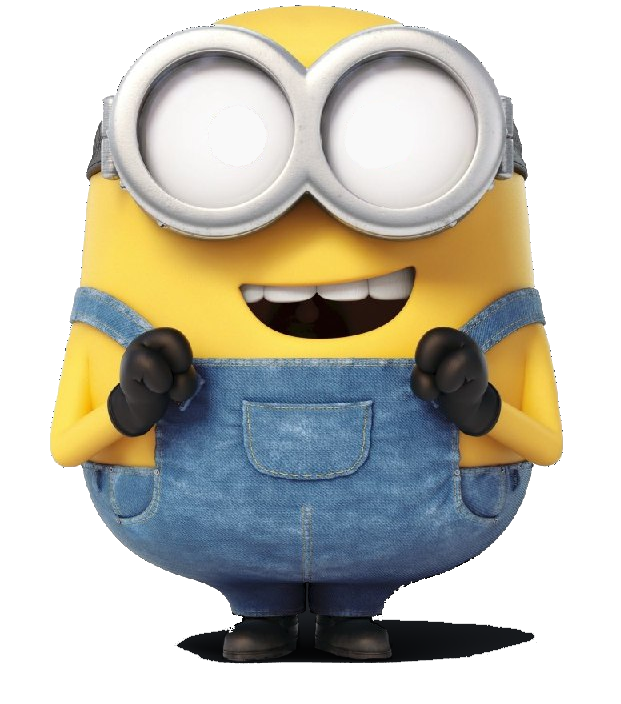
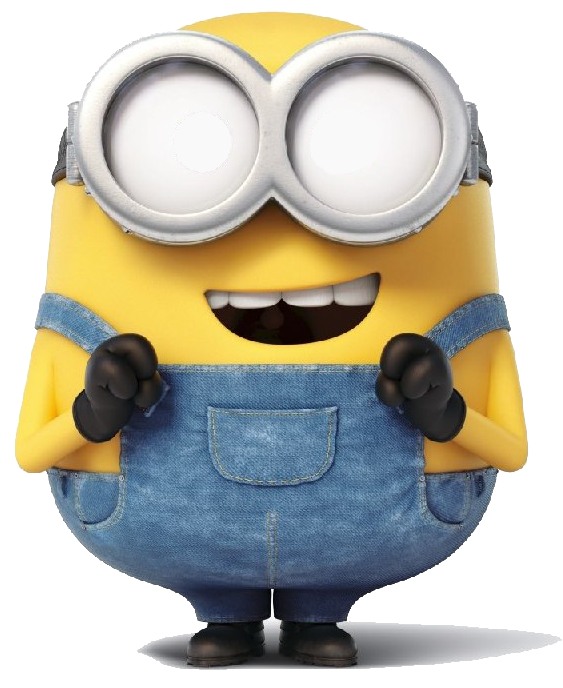
minion position eyes fix (#98)

diff --git a/src/sass/components/_library-background.scss b/src/sass/components/_library-background.scss
@@ -10,8 +10,8 @@
   }
   
   .minion-img{
-    max-width: 621px;
-    max-height: 704px;
+    max-width: 563px;
+    max-height: 688px;
   }
   
   .eyes-wrapper {
